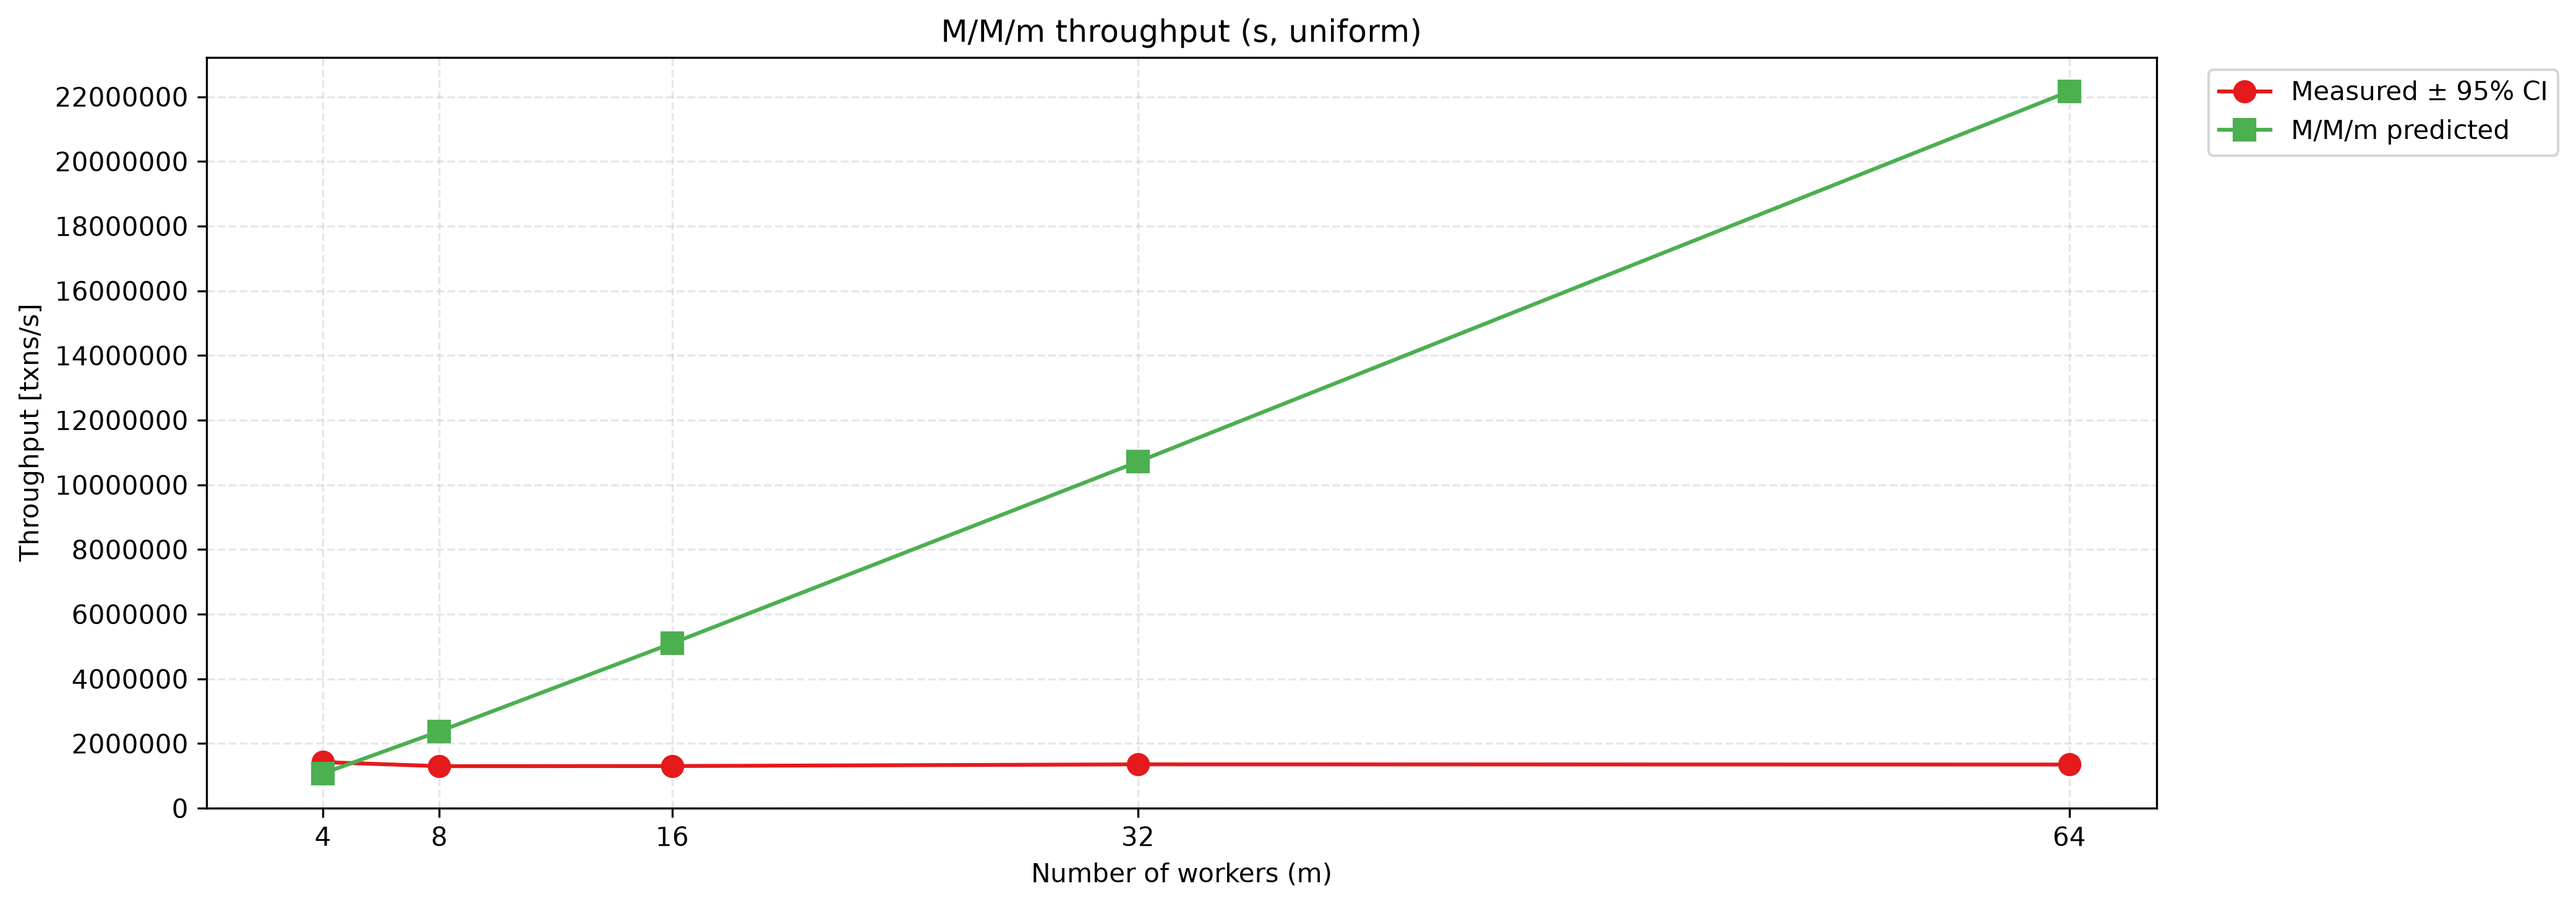
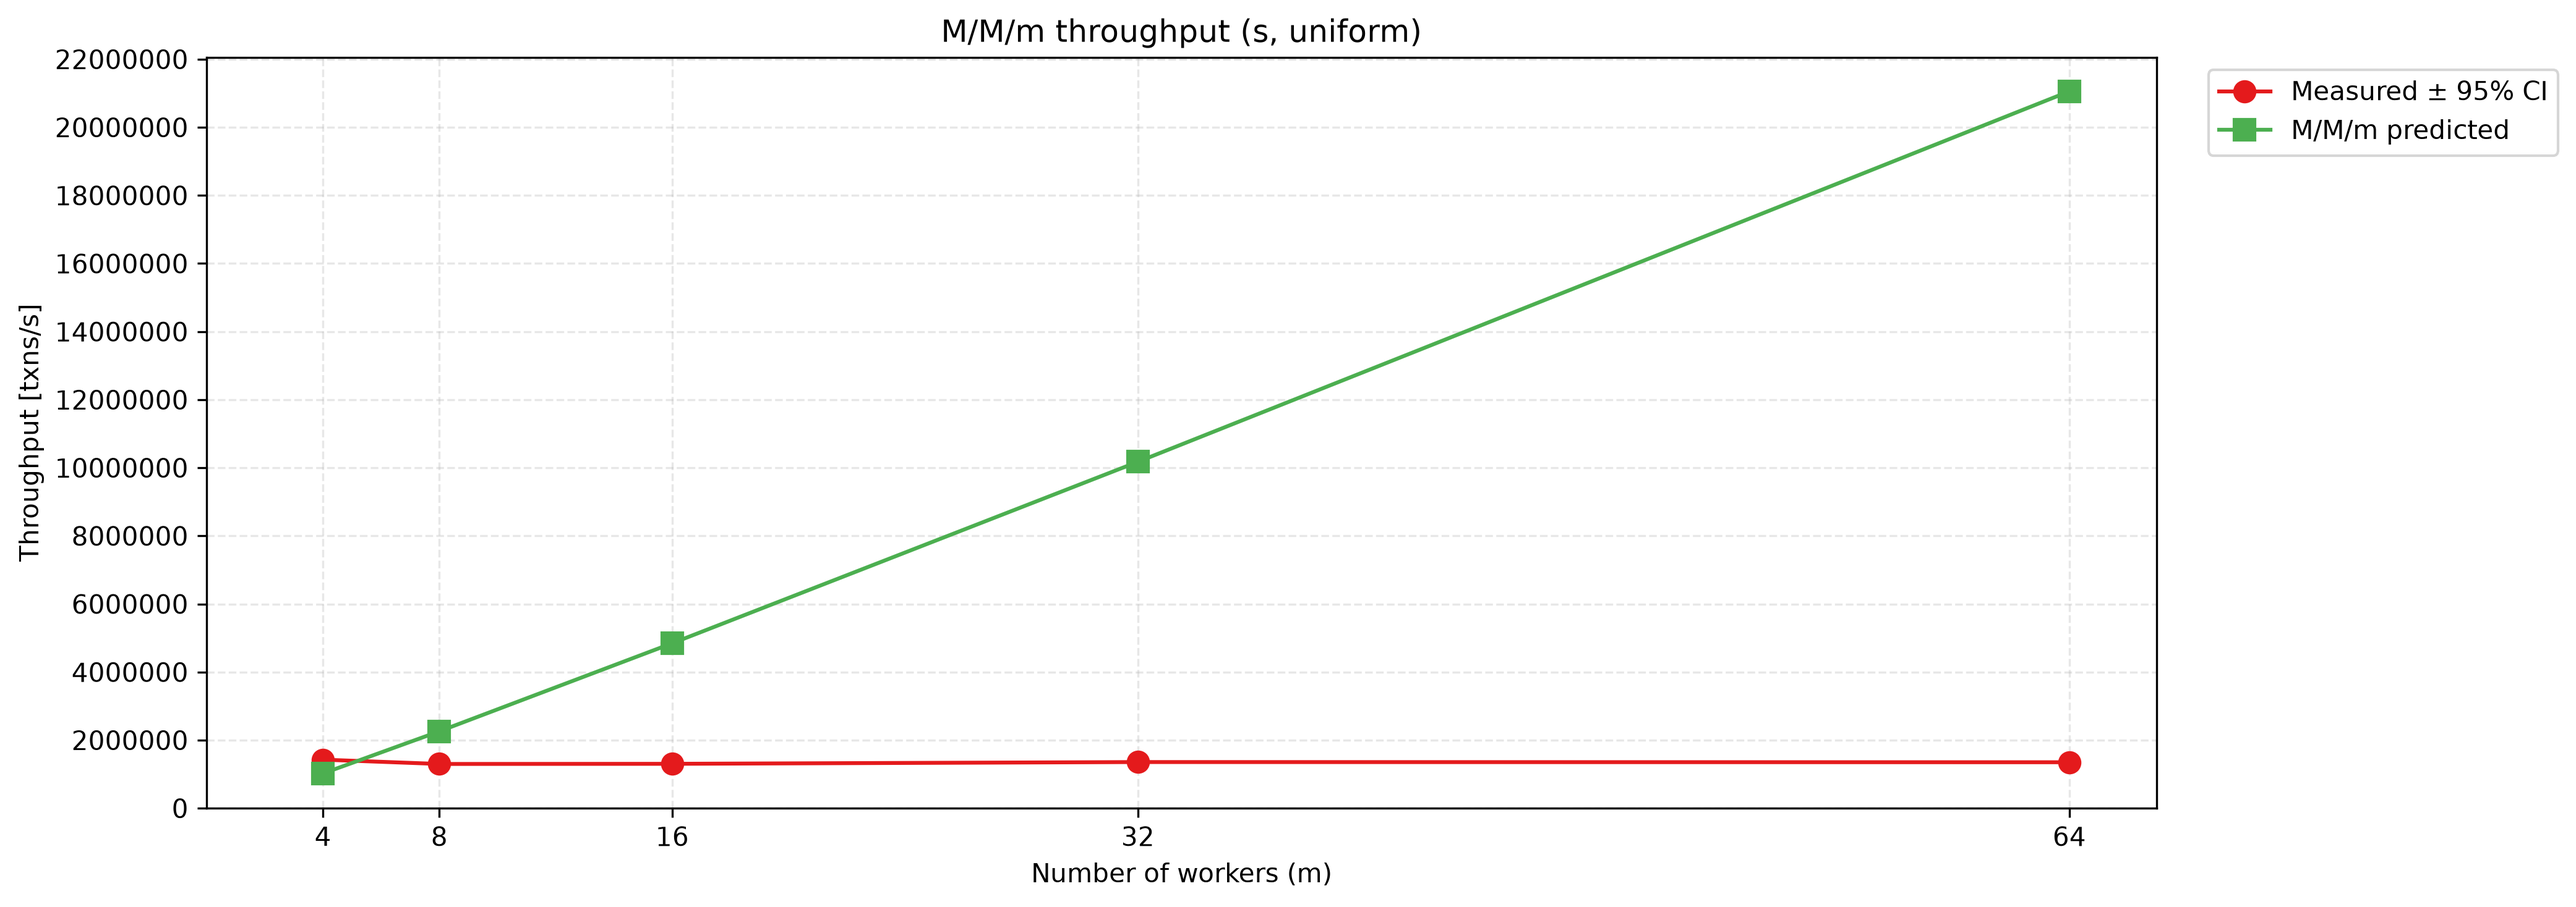
adjust plot mmm

diff --git a/plot/exp3/mmm-model.py b/plot/exp3/mmm-model.py
@@ -39,6 +39,30 @@ def throughput_per_run(data):
     return last["txns"] / last["time_s"]
 
 
+def estimate_mu(size, dist):
+    """μ = 1/E[s] where E[s] is mean response time at K=4 (least queueing).
+
+    At K=4 with negligible queueing, observed response time E[r] ≈ E[s],
+    so μ = 1 / E[s] ≈ 1 / E[r].
+    E[r] = K / λ = 4 / throughput (Little's law).
+    """
+    data_dir = data_dir_for("c4", size, dist)
+    csvs = sorted(glob.glob(os.path.join(data_dir, "**/*.csv"), recursive=True))
+    csvs = [
+        f
+        for f in csvs
+        if "summary" not in os.path.basename(f) and "avg" not in os.path.basename(f)
+    ]
+    if not csvs:
+        return None
+    runs = [load_csv(f) for f in csvs]
+    tps = [throughput_per_run(r) for r in runs]
+    k = 4
+    e_s_vals = [k / tp for tp in tps]
+    e_s = sum(e_s_vals) / len(e_s_vals)
+    return 1.0 / e_s
+
+
 def mm_m_response_time(m, lam, mu):
     # ρ = λ / (m·μ)
     rho = lam / (m * mu)
@@ -113,19 +137,24 @@ def main():
 
         n = len(M)
 
-        # µ = max throughput per worker / 0.95  to ensure ρ < 1 for all m
-        mu = max(means[i] / M[i] for i in range(n)) / 0.95
+        mu = estimate_mu(size, dist)
+        if mu is None:
+            print(
+                f"Warning: no no-cache data for {size}/{dist}, "
+                f"falling back to heuristic",
+                file=sys.stderr,
+            )
+            mu = max(means[i] / M[i] for i in range(n)) / 0.95
+        else:
+            print(f"μ ({size}/{dist}) = {mu:.2f} req/s (from K=4 cache data)")
 
         if args.mode == "response-time":
+            mmm_pred = [closed_throughput(M[i], mu) for i in range(n)]
             rt_meas = [M[i] / means[i] * 1000 for i in range(n)]
             rt_lower = [M[i] / ci_uppers[i] * 1000 for i in range(n)]
             rt_upper = [M[i] / ci_lowers[i] * 1000 for i in range(n)]
 
-            rt_mmm = []
-            for i in range(n):
-                lam = means[i]
-                r = mm_m_response_time(M[i], lam, mu)
-                rt_mmm.append(r * 1000 if r != float("inf") else float("nan"))
+            rt_mmm = [M[i] / mmm_pred[i] * 1000 for i in range(n)]
 
             fig, ax = plt.subplots(figsize=FIGSIZE)
 
